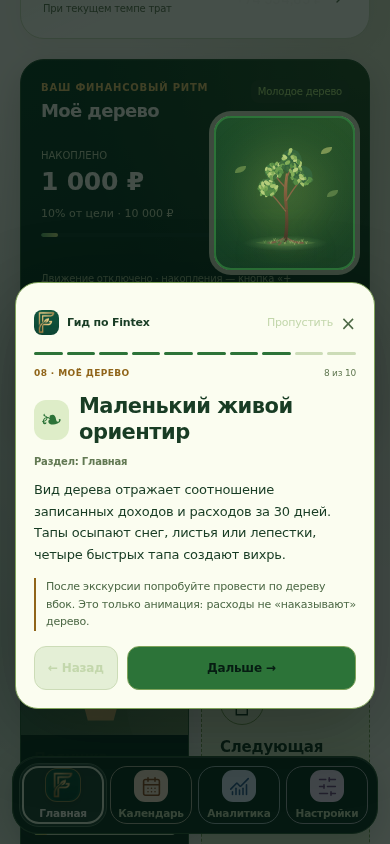
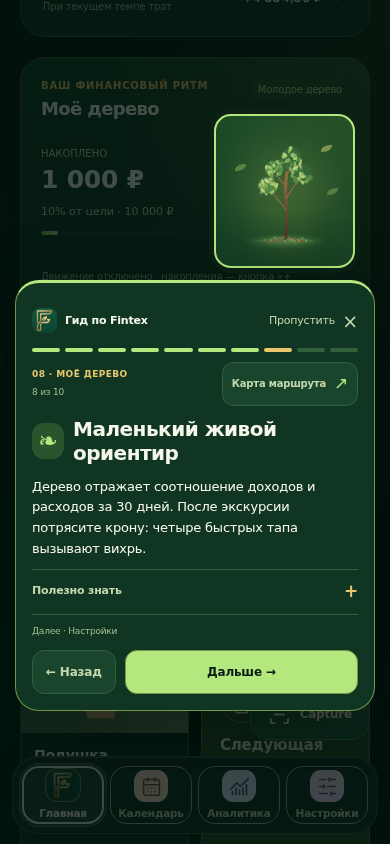
Improve guided tour with a chapter map, compact tips and exact first-visit resume

diff --git a/app-tour.js b/app-tour.js
@@ -1,37 +1,71 @@
 /* Read-only guided tour. All selectors/copy are local constants; the only saved
- * value is tour completion. No demo ledger entries or financial actions. */
+ * values are tour status and an unfinished first-visit checkpoint. No demo ledger entries or financial actions. */
 (() => {
   'use strict';
   if (window.FintexTour) return;
-  const KEY = 'fp_tour_v1';
+  const KEY = 'fp_tour_v1', CHECKPOINT = 'fp_tour_step_v1';
   const media = matchMedia('(prefers-reduced-motion: reduce)');
   const root = document.documentElement;
   const steps = [
-    {tab:'home',icon:'✦',chapter:'Знакомство',title:'Ваш маршрут по Fintex',text:'За минуту покажем, где управлять деньгами. Мы будем переходить между настоящими разделами и подсвечивать нужное.',tip:'Это безопасный просмотр: без пробных операций, списаний и изменений баланса.'},
-    {tab:'home',target:'#hero-daily-budget',icon:'◷',chapter:'Главная',title:'Сколько доступно сегодня',text:'На карточке сверху — остаток на счёте, резерв и свободные деньги. Дневной бюджет помогает распределить свободные средства до зарплаты.',tip:'«Доступно сегодня» — ориентир по вашим данным, а не новый баланс и не банковский лимит.'},
-    {tab:'home',target:'#capture-fab, #hdr-plus-btn',icon:'＋',chapter:'Добавление',title:'Запишите покупку удобным способом',text:'Зелёная кнопка сканирования принимает фото чека или скриншот. Через «+» в шапке можно внести операцию вручную.',tip:'Распознанные данные можно проверить перед сохранением. Сейчас камера и выбор файлов не откроются.'},
-    {tab:'home',target:'.tx-feed-header',icon:'≡',chapter:'Операции',title:'Вся история — в одном месте',text:'Здесь доходы и расходы сгруппированы по дням. Поиск найдёт магазин, категорию или сумму. Нажмите на запись, чтобы посмотреть детали.',tip:'Кнопка «⋯» рядом с суммой открывает действия. Удаление не происходит от обычного касания строки.'},
-    {tab:'calendar',target:'#cal-cells',icon:'▦',chapter:'Календарь',title:'Деньги на карте месяца',text:'Выбирайте дату, чтобы увидеть сводку этого дня. Здесь же удобно следить за плановыми платежами и датой зарплаты.',tip:'Из сводки дня можно перейти к операциям выбранной даты. Календарь не создаёт их повторно.'},
-    {tab:'analytics',target:'.ap-cashflow-heading, #view-analytics h2',icon:'↗',chapter:'Аналитика',title:'Поймите, куда уходят деньги',text:'Сравнивайте доходы и расходы за период, изучайте категории и динамику трат. Сначала запишите несколько операций — графики станут полезнее.',tip:'Разница доходов и расходов — результат за период, а не остаток на банковском счёте.'},
-    {tab:'home',target:'#savings-goals .sg-heading, #savings-goals',icon:'◎',chapter:'Цели',title:'У каждой мечты — своя цель',text:'Создавайте несколько целей, добавляйте обложки и пополняйте их отдельно. Плановый взнос помогает оценить срок накопления.',tip:'Отложенные деньги входят в ваш баланс, но исключены из доступных для трат. Автоматических списаний нет.'},
-    {tab:'home',target:'.ft-art-wrap',icon:'❧',chapter:'Моё дерево',title:'Маленький живой ориентир',text:'Вид дерева отражает соотношение записанных доходов и расходов за 30 дней. Тапы осыпают снег, листья или лепестки, четыре быстрых тапа создают вихрь.',tip:'После экскурсии попробуйте провести по дереву вбок. Это только анимация: расходы не «наказывают» дерево.'},
-    {tab:'settings',target:'#settings-guide',icon:'⚙',chapter:'Настройки',title:'Все настройки — здесь',text:'Выбирайте тему, светлый или тёмный режим, управляйте движением, импортом и подключением. Карточка «Что где в Fintex» запускает этот маршрут заново.',tip:'Не нужно повторно вводить имя, баланс или настраивать приложение, чтобы вернуться к подсказкам.'},
-    {tab:'settings',icon:'✓',chapter:'Готово',title:'Теперь вы знаете дорогу',text:'Главная — деньги и история. Календарь — даты и платежи. Аналитика — картина за период. Настройки — оформление и помощь.',tip:'Можно начать с одной покупки или создать первую цель. Если что-то забудете, экскурсия всегда под рукой в настройках.'}
+    {tab:'home',icon:'✦',chapter:'Знакомство',title:'Ваш маршрут по Fintex',text:'Короткий маршрут по вашим деньгам. Покажем нужное прямо в приложении — или выберите тему на карте.',tip:'Это безопасный просмотр: без пробных операций, списаний и изменений баланса.'},
+    {tab:'home',target:'#hero-daily-budget',icon:'◷',chapter:'Главная',title:'Сколько доступно сегодня',text:'Это ваш ориентир на день: сколько можно потратить, распределив свободные деньги до зарплаты.',tip:'«Доступно сегодня» — ориентир по вашим данным, а не новый баланс и не банковский лимит.'},
+    {tab:'home',target:'#capture-fab, #hdr-plus-btn',icon:'＋',chapter:'Добавление',title:'Запишите покупку удобным способом',text:'Capture читает фото чека или скриншот. А «+» в шапке — быстрый способ записать доход или расход вручную.',tip:'Распознанные данные можно проверить перед сохранением. Сейчас камера и выбор файлов не откроются.'},
+    {tab:'home',target:'.tx-feed-header',icon:'≡',chapter:'Операции',title:'Вся история — в одном месте',text:'Доходы и расходы собраны по дням. Ищите по магазину, категории или сумме; касание записи открывает детали.',tip:'Кнопка «⋯» рядом с суммой открывает действия. Удаление не происходит от обычного касания строки.'},
+    {tab:'calendar',target:'#cal-cells',icon:'▦',chapter:'Календарь',title:'Деньги на карте месяца',text:'Коснитесь даты, чтобы увидеть сводку дня. Здесь же — плановые платежи и дата зарплаты.',tip:'Из сводки дня можно перейти к операциям выбранной даты. Календарь не создаёт их повторно.'},
+    {tab:'analytics',target:'.ap-cashflow-heading, #view-analytics h2',icon:'↗',chapter:'Аналитика',title:'Поймите, куда уходят деньги',text:'Сравнивайте доходы и расходы, категории и динамику. Чем больше записанных операций, тем полезнее картина.',tip:'Разница доходов и расходов — результат за период, а не остаток на банковском счёте.'},
+    {tab:'home',target:'#savings-goals .sg-heading, #savings-goals',icon:'◎',chapter:'Цели',title:'У каждой мечты — своя цель',text:'У каждой цели — своя обложка, прогресс и пополнения. Плановый взнос поможет оценить, когда мечта станет ближе.',tip:'Отложенные деньги входят в ваш баланс, но исключены из доступных для трат. Автоматических списаний нет.'},
+    {tab:'home',target:'.ft-art-wrap',icon:'❧',chapter:'Моё дерево',title:'Маленький живой ориентир',text:'Дерево отражает соотношение доходов и расходов за 30 дней. После экскурсии потрясите крону: четыре быстрых тапа вызывают вихрь.',tip:'Один тап осыпает листья, снег или лепестки; жест вбок создаёт ветер. Это только игра: расходы не «наказывают» дерево.'},
+    {tab:'settings',target:'#settings-guide',icon:'⚙',chapter:'Настройки',title:'Все настройки — здесь',text:'Темы, светлый и тёмный режим, движение и данные — всё здесь. А эта карточка в любой момент вернёт к экскурсии.',tip:'Не нужно повторно вводить имя, баланс или настраивать приложение, чтобы вернуться к подсказкам.'},
+    {tab:'settings',icon:'✓',chapter:'Готово',title:'Теперь вы знаете дорогу',text:'Начните с одной покупки или первой цели. Не нужно помнить всё сразу: карта экскурсии поможет вернуться к любой теме.',tip:'Можно начать с одной покупки или создать первую цель. Если что-то забудете, экскурсия всегда под рукой в настройках.'}
   ];
   const names = {home:'Главная',calendar:'Календарь',analytics:'Аналитика',settings:'Настройки'};
-  let dialog, panel, focusBox, shade, index = 0, active = false, epoch = 0;
+  let dialog, panel, focusBox, shade, index = 0, active = false, epoch = 0, mapOpen = false;
+  const visited = new Set();
   let origin, overflow, effect, frame, observer, automatic = false;
   const read = () => { try { return localStorage.getItem(KEY); } catch (_) { return null; } };
   const save = value => { try { localStorage.setItem(KEY,value); } catch (_) { /* Tour still works without storage. */ } };
+  function checkpoint(clear = false) {
+    try {
+      if (clear) localStorage.removeItem(CHECKPOINT);
+      else if (automatic) localStorage.setItem(CHECKPOINT,String(index));
+    } catch (_) { /* Navigation never depends on writable storage. */ }
+  }
+  function savedStep() {
+    try {
+      const raw = localStorage.getItem(CHECKPOINT);
+      return /^(?:[0-9])$/.test(raw || '') ? Number(raw) : 0;
+    } catch (_) { return 0; }
+  }
   const moves = () => !media.matches && !root.classList.contains('no-motion');
   const visible = el => el && !!el.getClientRects().length && getComputedStyle(el).visibility !== 'hidden';
   function targetFor(step) {
-    return step.target ? [...document.querySelectorAll(step.target)].find(visible) : null;
+    // Comma-separated selectors are ordered fallbacks, not document order:
+    // Capture before the header +, goal heading before the whole goal block.
+    for (const selector of (step.target || '').split(',').filter(Boolean)) {
+      const target = [...document.querySelectorAll(selector.trim())].find(visible);
+      if (target) return target;
+    }
+    return null;
+  }
+  function toggleMap(open, focus = true) {
+    mapOpen = open;
+    dialog.dataset.map = String(open);
+    dialog.setAttribute('aria-describedby',open?'tour-map-intro':'tour-text');
+    dialog.querySelector('#tour-map').hidden = !open;
+    dialog.querySelector('.tour-content').hidden = open;
+    dialog.querySelector('.tour-actions').hidden = open;
+    const toggle = dialog.querySelector('#tour-map-toggle');
+    toggle.setAttribute('aria-expanded',String(open));
+    toggle.querySelector('span').textContent = open ? 'К подсказке' : 'Карта маршрута';
+    stopEffect();
+    layout(!open);
+    panel.scrollTop = 0;
+    if (focus) (open ? dialog.querySelector('[data-tour-jump][aria-current="step"]') : toggle)?.focus({preventScroll:true});
   }
   function stopEffect() { effect?.cancel(); effect = null; }
   function layout(scroll = false) {
     if (!active) return;
-    const step = steps[index], target = targetFor(step);
+    const step = steps[index], target = mapOpen ? null : targetFor(step);
     const vw = document.documentElement.clientWidth, vh = innerHeight;
     const width = Math.min(360,vw-28);
     panel.style.width = `${width}px`;
@@ -39,7 +73,9 @@
     const height = panel.offsetHeight;
     let rect = target?.getBoundingClientRect();
     // Fixed controls (Capture/header) must not scroll the underlying document.
-    if (scroll && target && getComputedStyle(target).position !== 'fixed') {
+    let fixed = false;
+    for (let el = target; el; el = el.parentElement) if (getComputedStyle(el).position === 'fixed') { fixed = true; break; }
+    if (scroll && target && !fixed) {
       const desired = Math.max(20,(vh-height-rect.height-32)/2);
       window.scrollTo({top:Math.max(0,scrollY+rect.top-desired),behavior:'instant'});
       rect = target.getBoundingClientRect();
@@ -66,9 +102,12 @@
   async function go(next) {
     if (!active) return;
     const ticket = ++epoch;
+    if (mapOpen) toggleMap(false,false);
     dialog.dataset.ready = 'false';
     index = Math.max(0,Math.min(steps.length-1,next));
     const step = steps[index];
+    visited.add(index); checkpoint();
+    dialog.querySelector('#tour-more').open = false;
     stopEffect();
     dialog.dataset.step = String(index);
     dialog.querySelector('#tour-title').textContent = step.title;
@@ -81,7 +120,14 @@
     const progress = dialog.querySelector('.tour-progress');
     progress.setAttribute('aria-valuenow',String(index+1));
     progress.setAttribute('aria-valuetext',`Шаг ${index+1} из ${steps.length}: ${step.chapter}`);
-    [...progress.children].forEach((dot,i) => { dot.dataset.done=String(i<=index); });
+    [...progress.children].forEach((dot,i) => { dot.dataset.done=String(visited.has(i)); dot.dataset.current=String(i===index); });
+    dialog.querySelectorAll('[data-tour-jump]').forEach((button,i)=>{
+      button.dataset.visited=String(visited.has(i));
+      if(i===index)button.setAttribute('aria-current','step');else button.removeAttribute('aria-current');
+      button.querySelector('.tour-map-state').textContent=i===index?'Вы здесь':visited.has(i)?'Просмотрено':'Посмотреть';
+    });
+    dialog.querySelector('.tour-up-next').textContent = index < steps.length-1 ? `Далее · ${steps[index+1].chapter}` : 'Экскурсия всегда доступна в настройках';
+    dialog.querySelector('.tour-overview').hidden = index !== 0 && index !== steps.length-1;
     dialog.querySelector('#tour-back').disabled = index === 0;
     dialog.querySelector('#tour-next').textContent = index === steps.length-1 ? (automatic?'Начать пользоваться':'Готово') : index === 0 ? 'Покажите мне →' : 'Дальше →';
     focusBox.hidden = true; shade.hidden = false;
@@ -106,7 +152,7 @@
     if (!active) return;
     active = false; epoch++; observer?.disconnect();
     cancelAnimationFrame(frame); frame = null; stopEffect();
-    if (persist) save(status);
+    if (persist) { save(status); checkpoint(true); }
     dialog.close(); focusBox.hidden = true;
     root.classList.remove('fintex-tour-open');
     document.body.style.overflow = overflow;
@@ -123,12 +169,12 @@
     if (!document.getElementById('onboarding-screen')?.classList.contains('hidden') || document.querySelector('dialog[open]') || root.classList.contains('fintex-modal-open')) return false;
     window.FintexEntrance?.dismiss(true);
     window.cancelTxSwipe?.(); window.cancelGoalHold?.();
-    automatic = auto;
+    automatic = auto; visited.clear();
     origin = {tab:document.querySelector('.nav-tab[aria-current="page"]')?.dataset.nav || 'home',scroll:scrollY,focus:document.activeElement};
     overflow = document.body.style.overflow;
     document.body.style.overflow = 'hidden';
     root.classList.add('fintex-tour-open');
-    active = true; dialog.showModal(); go(0);
+    active = true; dialog.showModal(); go(auto ? savedStep() : 0);
     return true;
   }
   function boot() {
@@ -138,23 +184,35 @@
     dialog.innerHTML = `<div class="tour-shade" aria-hidden="true"></div><div class="tour-focus" hidden aria-hidden="true"></div>
       <section class="tour-panel"><header class="tour-top"><span class="tour-brand"><img src="./assets/brand/fintex-logo.webp?v=49" width="25" height="25" alt=""/>Гид по Fintex</span><button type="button" id="tour-skip" aria-label="Пропустить экскурсию">Пропустить <span aria-hidden="true">×</span></button></header>
       <div class="tour-progress" role="progressbar" aria-label="Ход экскурсии" aria-valuemin="1" aria-valuemax="${steps.length}" aria-valuenow="1">${steps.map(()=>'<i aria-hidden="true"></i>').join('')}</div>
-      <div class="tour-route"><span class="tour-chapter"></span><span class="tour-counter"></span></div>
-      <div class="tour-heading"><span class="tour-symbol" aria-hidden="true"></span><h2 id="tour-title" tabindex="-1"></h2></div>
-      <p class="tour-location"></p><p id="tour-text"></p><p id="tour-tip"></p>
+      <div class="tour-route"><div><span class="tour-chapter"></span><span class="tour-counter"></span></div><button type="button" id="tour-map-toggle" aria-controls="tour-map" aria-expanded="false"><span>Карта маршрута</span><b aria-hidden="true">↗</b></button></div>
+      <nav id="tour-map" aria-label="Темы экскурсии" hidden><h3>Что хотите найти?</h3><p id="tour-map-intro">Можно идти по порядку или выбрать тему.</p><div class="tour-map-grid">${steps.map((step,i)=>`<button type="button" data-tour-jump="${i}"><span class="tour-map-number" aria-hidden="true">${String(i+1).padStart(2,'0')}</span><span><strong>${step.chapter}</strong><small class="tour-map-state">Посмотреть</small></span></button>`).join('')}</div></nav>
+      <div class="tour-content"><div class="tour-heading"><span class="tour-symbol" aria-hidden="true"></span><h2 id="tour-title" tabindex="-1"></h2></div>
+      <p class="tour-location"></p><p id="tour-text"></p>
+      <div class="tour-overview" aria-label="Разделы приложения"><span>Главная</span><span>Календарь</span><span>Аналитика</span><span>Настройки</span></div>
+      <details id="tour-more"><summary>Полезно знать <span aria-hidden="true">+</span></summary><p id="tour-tip"></p></details>
+      <p class="tour-up-next"></p></div>
       <footer class="tour-actions"><button type="button" id="tour-back">← Назад</button><button type="button" id="tour-next">Покажите мне →</button></footer></section>`;
     document.body.append(dialog); panel=dialog.querySelector('.tour-panel'); focusBox=dialog.querySelector('.tour-focus'); shade=dialog.querySelector('.tour-shade');
+    dialog.querySelector('#tour-map-toggle').addEventListener('click',()=>toggleMap(!mapOpen));
+    dialog.querySelector('#tour-map').addEventListener('click',event=>{
+      const button = event.target.closest('[data-tour-jump]');
+      if (button) go(Number(button.dataset.tourJump));
+    });
+    dialog.querySelector('#tour-more').addEventListener('toggle',()=>{if(active&&!mapOpen)layout(true);});
     dialog.querySelector('#tour-skip').addEventListener('click',()=>finish());
     dialog.querySelector('#tour-back').addEventListener('click',()=>go(index-1));
     dialog.querySelector('#tour-next').addEventListener('click',()=>index===steps.length-1?finish('complete'):go(index+1));
-    dialog.addEventListener('cancel',event=>{event.preventDefault();finish();});
+    dialog.addEventListener('cancel',event=>{event.preventDefault();if(mapOpen)toggleMap(false);else finish();});
     dialog.addEventListener('close',()=>{if(active)finish();});
     dialog.addEventListener('keydown',event=>{
-      if(event.altKey||event.ctrlKey||event.metaKey)return;
+      if(event.key==='Escape'&&mapOpen){event.preventDefault();event.stopPropagation();toggleMap(false);return;}
+      if(event.altKey||event.ctrlKey||event.metaKey||mapOpen)return;
       if(event.key==='ArrowRight'&&index<steps.length-1){event.preventDefault();go(index+1);}
       if(event.key==='ArrowLeft'&&index>0){event.preventDefault();go(index-1);}
     });
     if (window.ResizeObserver) observer = new ResizeObserver(scheduleLayout);
     document.fonts?.ready.then(scheduleLayout);
+    window.addEventListener('fintex:appearancechange',scheduleLayout);
     window.addEventListener('resize',scheduleLayout);window.addEventListener('scroll',scheduleLayout,{passive:true});
     window.visualViewport?.addEventListener('resize',scheduleLayout);
     media.addEventListener?.('change',()=>{if(!moves())stopEffect();scheduleLayout();});

diff --git a/design-system.css b/design-system.css
@@ -2102,3 +2102,50 @@ html.fintex-tour-open { scroll-behavior: auto !important; }
   body #tour-title { font-size: 18px; }
   body #fintex-tour .tour-actions { position: sticky; bottom: -12px; padding-block: 10px 12px; background: var(--surface-1); }
 }
+
+/* v68 · compact field guide: a chapter map, optional detail and more app in view. */
+body #fintex-tour .tour-panel { padding: 16px; border-radius: 24px; border-top: 3px solid var(--accent); }
+body #fintex-tour .tour-heading { grid-template-columns: 32px minmax(0,1fr); gap: 9px; margin-top: 11px; }
+body #fintex-tour .tour-symbol { width: 32px; height: 36px; font-size: 24px; }
+body #tour-title { font-size: 20px; }
+body #fintex-tour .tour-location { display: none; }
+body #tour-text { font-size: 13px; line-height: 1.6; margin-top: 11px; }
+body #fintex-tour .tour-progress { gap: 5px; margin: 5px 0 10px; }
+body #fintex-tour .tour-progress i { height: 4px; }
+body #fintex-tour .tour-progress i[data-current=true] { background: var(--gold); }
+body #tour-map-toggle { display: flex; align-items: center; justify-content: space-between; gap: 8px; width: auto; min-height: 44px; margin: 0; padding: 0 9px; border: 1px solid var(--border-subtle); border-radius: 11px; background: var(--surface-2); color: var(--text-secondary); font-size: 10px; font-weight: 650; text-align: left; }
+body #tour-map-toggle b { color: var(--accent); font-size: 17px; font-weight: 500; }
+body #tour-map-toggle[aria-expanded=true] { border-color: var(--accent); color: var(--accent); }
+body #fintex-tour .tour-overview { display: flex; flex-wrap: wrap; gap: 5px; margin-top: 13px; }
+body #fintex-tour .tour-overview span { padding: 5px 8px; border-radius: 7px; background: var(--accent-soft); color: var(--accent); font-size: 9px; font-weight: 650; }
+body #tour-more { margin-top: 9px; border-block: 1px solid var(--border-subtle); }
+body #tour-more summary { display: flex; align-items: center; justify-content: space-between; gap: 8px; min-height: 44px; list-style: none; cursor: pointer; color: var(--text-secondary); font-size: 11px; font-weight: 600; }
+body #tour-more summary::-webkit-details-marker { display: none; }
+body #tour-more summary span { color: var(--gold); font-size: 17px; }
+body #tour-more[open] summary span { transform: rotate(45deg); }
+body #tour-more summary:focus-visible { outline: 2px solid var(--accent); outline-offset: -2px; border-radius: 6px; }
+body #tour-tip { margin: 0 0 12px; }
+body #fintex-tour .tour-up-next { margin-top: 10px; color: var(--text-muted); font-size: 9px; line-height: 1.5; }
+body #fintex-tour .tour-actions { padding-top: 12px; }
+body #tour-map { margin-top: 13px; }
+body #tour-map h3 { font-size: 19px; font-weight: 750; letter-spacing: -.02em; }
+body #tour-map > p { margin: 5px 0 12px; color: var(--text-secondary); font-size: 11px; line-height: 1.5; }
+body #fintex-tour .tour-map-grid { display: grid; grid-template-columns: repeat(2,minmax(0,1fr)); gap: 7px; padding-bottom: 3px; }
+body #fintex-tour [data-tour-jump] { display: flex; align-items: center; gap: 7px; min-width: 0; min-height: 57px; padding: 8px; border: 1px solid var(--border-subtle); border-radius: 12px; background: var(--surface-2); color: var(--text-primary); text-align: left; }
+body #fintex-tour [data-tour-jump] strong { display: block; font-size: 11px; font-weight: 700; overflow-wrap: anywhere; }
+body #fintex-tour .tour-map-state { display: block; font-size: 9px; margin-top: 3px; color: var(--text-muted); }
+body #fintex-tour .tour-map-number { display: grid; place-items: center; flex-shrink: 0; width: 24px; height: 28px; color: var(--text-muted); font-size: 10px; font-weight: 700; border-radius: 7px; background: var(--bg-canvas); font-variant-numeric: tabular-nums; }
+body #fintex-tour [data-tour-jump][data-visited=true] .tour-map-number { background: var(--accent-soft); color: var(--accent); }
+body #fintex-tour [data-tour-jump][aria-current=step] { border-color: var(--accent); background: var(--accent-soft); }
+body #fintex-tour [data-tour-jump][aria-current=step] .tour-map-state { color: var(--accent); }
+@media(max-height:500px) {
+  body #fintex-tour .tour-panel { padding: 10px 14px; border-radius: 18px; }
+  body #tour-title { font-size: 18px; }
+  body #fintex-tour .tour-actions { bottom: -10px; }
+}
+
+body #fintex-tour .tour-route > div { display: grid; gap: 4px; }
+html.no-motion body #fintex-tour * { transition: none !important; }
+@media(prefers-reduced-motion:reduce) {
+  body #fintex-tour * { transition: none !important; }
+}

diff --git a/index.html b/index.html
@@ -18,7 +18,7 @@
   <script src="./appearance.js?v=62"></script>
   <script src="./cloud.js?v=39"></script>
   <link rel="stylesheet" href="./styles.css?v=22" />
-  <link rel="stylesheet" href="./design-system.css?v=67" />
+  <link rel="stylesheet" href="./design-system.css?v=68" />
 </head>
 <body class="max-w-md mx-auto min-h-screen relative select-none">
 
@@ -892,7 +892,7 @@
         </div>
       <section id="settings-guide" class="tour-settings-card card-surface" aria-labelledby="tour-settings-title">
         <span class="tour-settings-mark" aria-hidden="true">↗</span>
-        <div><span class="tour-settings-kicker">Освойтесь за минуту</span><h3 id="tour-settings-title">Что где в Fintex</h3><p>Баланс, операции, календарь и цели — покажем прямо в приложении.</p></div>
+        <div><span class="tour-settings-kicker">Ваш гид по приложению</span><h3 id="tour-settings-title">Что где в Fintex</h3><p>Пройдите короткий маршрут или выберите нужную тему на карте экскурсии.</p></div>
         <button type="button" id="tour-replay" onclick="FintexTour.start()">Пройти экскурсию заново <span aria-hidden="true">→</span></button>
       </section>
       <p class="section-caption">Под себя</p>
@@ -1901,9 +1901,9 @@
   <script src="./theme-atmosphere.js?v=63"></script>
   <script src="./tree-interaction.js?v=65"></script>
   <script src="./capture-model.js?v=43"></script>
-  <script src="./capture.js?v=43"></script>
+  <script src="./capture.js?v=68"></script>
   <script src="./behavior-model.js?v=44"></script>
   <script src="./behavior.js?v=54"></script>
-  <script src="./app-tour.js?v=67"></script>
+  <script src="./app-tour.js?v=68"></script>
 </body>
 </html>

diff --git a/capture.js b/capture.js
@@ -168,7 +168,7 @@
   function updateFab(){
     if(!fab)return;
     const home=!$('view-home')?.classList.contains('hidden');
-    const overlay=!!document.querySelector('dialog[open], [id^="modal-"]:not(.hidden), #onboarding-screen:not(.hidden), #returning-splash:not(.hidden)');
+    const overlay=!!document.querySelector('dialog[open]:not(#fintex-tour), [id^="modal-"]:not(.hidden), #onboarding-screen:not(.hidden), #returning-splash:not(.hidden)');
     const hidden=!home||overlay;if(fab.hidden!==hidden)fab.hidden=hidden;
   }
   function mount(){

diff --git a/README.md b/README.md
@@ -387,3 +387,14 @@ npm run test:ui
 `app-tour.js` использует нативный `dialog`: фон неактивен, Tab остаётся внутри, Escape закрывает, стрелки переключают шаги. Подсвеченные кнопки не нажимаются: нет тестовых операций, открытия камеры/файлов, пополнений или изменений финансовых данных. Локальный `fp_tour_v1` хранит только `pending`/`complete`/`skipped`; без маркера существующих пользователей не прерываем. Незавершённый первый маршрут возобновляется после перезагрузки, пропущенный не навязывается снова. Старый повтор вводного экрана остаётся отдельной функцией.
 
 Все шесть палитр, 320px и низкий горизонтальный экран; если элемент и подсказка не помещаются вместе, используется читаемая центральная карточка без неточной подсветки. Конечный 200мс reveal отключён для reduced-motion/выключенного движения. Девять браузерных регрессий в `tests/app-tour.spec.cjs` покрывают первый запуск/возврат, полный маршрут, отсутствие изменения хранилища денег, инертность фона, фокус/клавиатуру, адаптивность, motion, отсутствующие элементы и отказ записи маркера. Превью: `docs/tour-balance-light-preview.png`, `docs/tour-tree-dark-preview.png`.
+
+### Более удобный гид — v68
+
+Экскурсия стала справочником, к которому можно обращаться точечно:
+
+- **Карта маршрута** на любом шаге: десять тем, прямой переход в реальный раздел, текущая тема и отдельные отметки только действительно просмотренных шагов. Не нужно пролистывать всё ради одной подсказки. Карта заменяет текст, а не наслаивается поверх второго диалога; Escape сначала возвращает к подсказке, повторный — закрывает экскурсию.
+- Основные объяснения сокращены, дополнительные нюансы убраны в раскрываемое **«Полезно знать»**, следующий раздел подписан под текстом. Верхняя акцентная линия, золотой текущий шаг и мини-карта разделов на старте/финише поддерживают общий стиль. Подробности сворачиваются при смене темы экскурсии.
+- **Точный возврат после перезагрузки**: только незавершённый первый маршрут хранит индекс в `fp_tour_step_v1`, не финансовые данные. Повреждённый индекс игнорируется, завершение/пропуск удаляет checkpoint; ручной повтор начинается с приветствия. Отказ хранилища не блокирует навигацию.
+- Исправлен порядок резервных селекторов: подсвечивается именно заголовок целей, а не весь большой блок. Capture остаётся видимым на главной во время экскурсии (по-прежнему неактивным благодаря нативному modal dialog), прочие модальные окна скрывают его как прежде. Фиксированные элементы и элементы внутри фиксированной шапки больше не прокручивают документ.
+
+`tests/app-tour.spec.cjs` теперь содержит 16 проверок: добавлены карта/прямые переходы, точный checkpoint и неверные значения, отказ записи, раскрываемые детали, геометрия целевых элементов и карта на 320px/коротком горизонтальном экране во всех палитрах. Превью обновлены: `docs/tour-balance-light-preview.png`, `docs/tour-tree-dark-preview.png`; новая карта — `docs/tour-map-dark-preview.png`.
